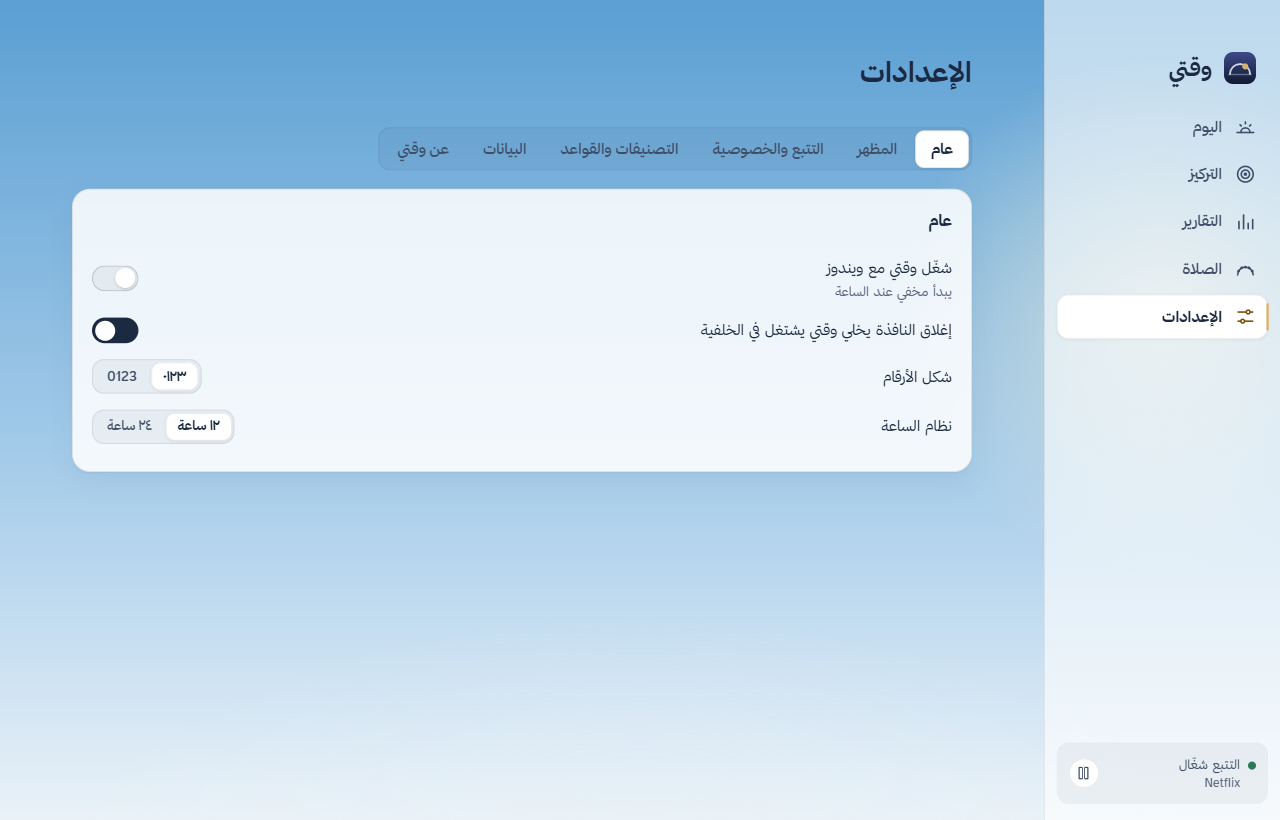
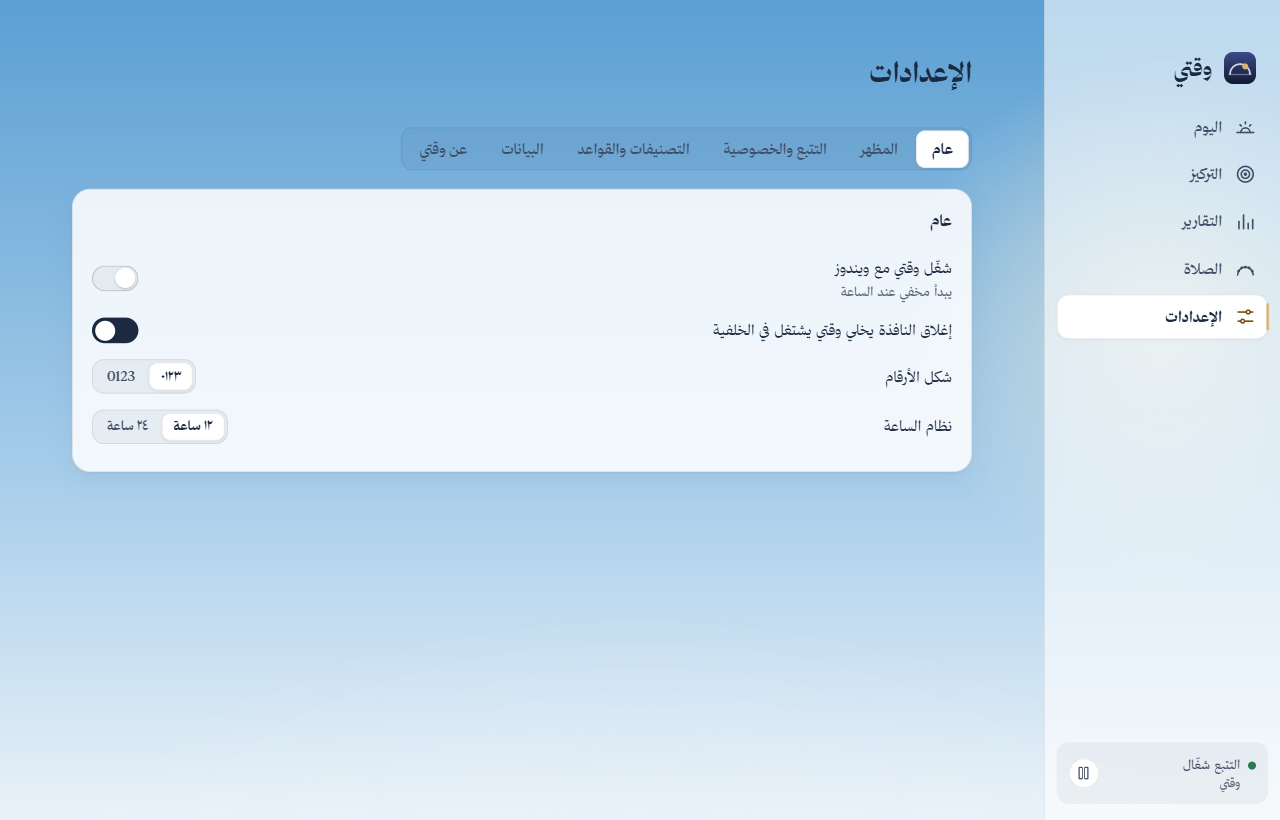
feat(ui): thmanyah serif style across the app; pin the E2E clock
After a side-by-side preview the serif style won: Thmanyah
Serif Display (500/700) for headings and big numbers, Thmanyah Serif
Text (400/500/700) for everything else. Same metrics and coverage as
Sans; still inlined into the CSS bundle, never shipped as files.
`npm run fonts` copies the five files and clears stale ones.

E2E runs launched within 10 minutes after a real adhan began in that
prayer's startup offer and failed. Isolated test profiles now honour
WAQTI_CLOCK_OFFSET_MS, the launcher pins the clock to 10:00, and
advanceClock() moves it relative to that.

diff --git a/electron.vite.config.ts b/electron.vite.config.ts
@@ -45,19 +45,23 @@ function cspPlugin(isDev: boolean): Plugin {
 }
 
 const THMANYAH_DIR = resolve(__dirname, 'fonts/thmanyah')
+// Serif Display for headings and big numbers (500 also serves 400; 700 serves
+// 600), Serif Text for everything else. Keep in step with FILES in scripts/fonts.mjs.
 const THMANYAH_FACES = [
-  { file: 'thmanyahsans-Regular.woff2', weight: 400 },
-  { file: 'thmanyahsans-Medium.woff2', weight: 500 },
-  { file: 'thmanyahsans-Bold.woff2', weight: 700 }
+  { family: 'Thmanyah Serif Display', file: 'thmanyahserifdisplay-Medium.woff2', weight: 500 },
+  { family: 'Thmanyah Serif Display', file: 'thmanyahserifdisplay-Bold.woff2', weight: 700 },
+  { family: 'Thmanyah Serif Text', file: 'thmanyahseriftext-Regular.woff2', weight: 400 },
+  { family: 'Thmanyah Serif Text', file: 'thmanyahseriftext-Medium.woff2', weight: 500 },
+  { family: 'Thmanyah Serif Text', file: 'thmanyahseriftext-Bold.woff2', weight: 700 }
 ]
 
 /**
- * Serves `virtual:thmanyah.css`: the @font-face rules for Thmanyah Sans with
- * the font files inlined as data URIs. The thmanyah Font License allows the
- * font only inside a compiled, packaged product and never as files a user can
- * pull out, and it forbids redistributing them, so the files live outside git
- * (`npm run fonts`) and never ship as separate assets. When they are missing
- * (a fresh clone) the module is empty and the bundled OFL fonts take over.
+ * Serves `virtual:thmanyah.css`: the @font-face rules for the Thmanyah serif
+ * fonts with the files inlined as data URIs. The thmanyah Font License allows
+ * the font only inside a compiled, packaged product and never as files a user
+ * can pull out, and it forbids redistributing them, so the files live outside
+ * git (`npm run fonts`) and never ship as separate assets. When they are
+ * missing (a fresh clone) the module is empty and the bundled OFL fonts take over.
  */
 function thmanyahPlugin(): Plugin {
   const id = 'virtual:thmanyah.css'
@@ -71,14 +75,14 @@ function thmanyahPlugin(): Plugin {
       if (source !== resolvedId) return undefined
       if (!THMANYAH_FACES.every((f) => existsSync(join(THMANYAH_DIR, f.file)))) {
         this.warn(
-          'Thmanyah Sans is not in fonts/thmanyah (npm run fonts); using the bundled fonts.'
+          'The Thmanyah fonts are not in fonts/thmanyah (npm run fonts); using the bundled fonts.'
         )
         return ''
       }
       return THMANYAH_FACES.map((f) => {
         const data = readFileSync(join(THMANYAH_DIR, f.file)).toString('base64')
         return `@font-face {
-  font-family: 'Thmanyah Sans';
+  font-family: '${f.family}';
   font-style: normal;
   font-display: block;
   font-weight: ${f.weight};

diff --git a/tests/e2e/helpers.ts b/tests/e2e/helpers.ts
@@ -15,7 +15,17 @@ export interface Launched {
   dataDir: string
 }
 
-/** Launches the built app with an isolated data folder. */
+/**
+ * Offset that makes the app's clock read 10:00 today: well clear of every
+ * prayer, so a run never starts inside a real adhan's startup offer.
+ */
+function tenAmOffset(): string {
+  const target = new Date()
+  target.setHours(10, 0, 0, 0)
+  return String(Math.round((target.getTime() - Date.now()) / 60_000) * 60_000)
+}
+
+/** Launches the built app with an isolated data folder and a pinned clock. */
 export async function launch(
   extraEnv: Record<string, string> = {},
   dataDir?: string
@@ -23,7 +33,12 @@ export async function launch(
   const dir = dataDir ?? fs.mkdtempSync(path.join(os.tmpdir(), 'waqti-e2e-'))
   const app = await electron.launch({
     args: ['.'],
-    env: { ...process.env, WAQTI_USER_DATA: dir, ...extraEnv } as Record<string, string>
+    env: {
+      ...process.env,
+      WAQTI_USER_DATA: dir,
+      WAQTI_CLOCK_OFFSET_MS: tenAmOffset(),
+      ...extraEnv
+    } as Record<string, string>
   })
   const win = await app.firstWindow()
   return { app, win, dataDir: dir }
@@ -47,6 +62,15 @@ export async function shown(app: ElectronApplication, page: Page): Promise<Page>
     )
     .toBe(true)
   return page
+}
+
+/**
+ * Moves the app's clock `minutes` forward from where it reads now.
+ * (`debug:setOffset` alone is relative to the real clock, and tests start pinned.)
+ */
+export async function advanceClock(win: Page, minutes: number): Promise<void> {
+  const { clockOffsetMs } = await invoke(win, 'app:snapshot')
+  await invoke(win, 'debug:setOffset', { minutes: Math.round(clockOffsetMs / 60_000) + minutes })
 }
 
 /** Calls the typed IPC bridge from the page. */

diff --git a/src/renderer/src/styles/tokens.css b/src/renderer/src/styles/tokens.css
@@ -32,11 +32,13 @@
   /* Category colours: src/shared/palette.ts (validated for both tones) */
   --cat-other: #4a3aa7;
 
-  /* Type: Thmanyah Sans everywhere; the OFL fonts cover the few glyphs it lacks
-     (٫ ٬) and stand in when it is not installed (see fonts.css). */
+  /* Type: Thmanyah Serif Display for headings and big numbers, Serif Text for
+     everything else. The OFL fonts cover the few glyphs they lack (٫ ٬) and
+     stand in when they are not installed (see fonts.css). */
   --font-display:
-    'Thmanyah Sans', 'Noto Kufi Arabic', 'IBM Plex Sans Arabic', 'Segoe UI', system-ui, sans-serif;
-  --font-body: 'Thmanyah Sans', 'IBM Plex Sans Arabic', 'Segoe UI', system-ui, sans-serif;
+    'Thmanyah Serif Display', 'Noto Kufi Arabic', 'IBM Plex Sans Arabic', 'Segoe UI', system-ui,
+    sans-serif;
+  --font-body: 'Thmanyah Serif Text', 'IBM Plex Sans Arabic', 'Segoe UI', system-ui, sans-serif;
   --fs-display: 56px;
   --fs-h1: 28px;
   --fs-h2: 20px;

diff --git a/tests/e2e/lock.spec.ts b/tests/e2e/lock.spec.ts
@@ -1,6 +1,6 @@
 import path from 'node:path'
 import { expect, test, type Page } from '@playwright/test'
-import { invoke, launch, shown } from './helpers'
+import { advanceClock, invoke, launch, shown } from './helpers'
 
 const SHOTS = process.env['SHOT_DIR']
 
@@ -60,7 +60,7 @@ test('prayer lock: snooze once, then صلّيت after the minimum time', async (
   expect((await invoke(win, 'app:snapshot')).machine.prayer.kind).toBe('snoozed')
 
   // Jump the scheduler clock past the snooze: the lock returns without a second snooze.
-  await invoke(win, 'debug:setOffset', { minutes: 6 })
+  await advanceClock(win, 6)
   overlay = await overlayWindow(app)
   await expect(overlay.locator('[data-testid="lock-snooze"]')).toBeDisabled()
   const closed2 = overlay.waitForEvent('close')

diff --git a/src/renderer/src/styles/fonts.css b/src/renderer/src/styles/fonts.css
@@ -1,8 +1,8 @@
 /*
- * The UI face is Thmanyah Sans, served by `virtual:thmanyah.css` (see
- * electron.vite.config.ts). These bundled fonts (SIL OFL 1.1, see
- * THIRD_PARTY_LICENSES) fill the glyphs it lacks and stand in when it is not
- * installed. Arabic and Latin subsets only, woff2 only.
+ * The UI faces are Thmanyah Serif Display and Serif Text, served by
+ * `virtual:thmanyah.css` (see electron.vite.config.ts). These bundled fonts
+ * (SIL OFL 1.1, see THIRD_PARTY_LICENSES) fill the glyphs they lack and stand
+ * in when they are not installed. Arabic and Latin subsets only, woff2 only.
  * Noto Kufi Arabic: headings, times, big numbers. IBM Plex Sans Arabic: body.
  */
 

diff --git a/tests/e2e/focus.spec.ts b/tests/e2e/focus.spec.ts
@@ -1,6 +1,6 @@
 import path from 'node:path'
 import { expect, test, type Page } from '@playwright/test'
-import { invoke, launch, shown } from './helpers'
+import { advanceClock, invoke, launch, shown } from './helpers'
 
 const SHOTS = process.env['SHOT_DIR']
 
@@ -66,7 +66,7 @@ test('focus session: guard, back to work, snooze, prayer pause and summary', asy
   }
 
   // Jump past the end: the session completes and the summary appears.
-  await invoke(win, 'debug:setOffset', { minutes: 30 })
+  await advanceClock(win, 30)
   await expect(win.getByRole('dialog')).toBeVisible({ timeout: 10_000 })
   await expect(win.getByRole('dialog')).toContainText('أحسنت')
   if (SHOTS) {

diff --git a/src/main/core.ts b/src/main/core.ts
@@ -118,6 +118,12 @@ export class WaqtiCore {
     this.repo = opts.repo
     this.settings = opts.settings
     this.notice = opts.notice
+    // Isolated test profiles may start at a pinned clock so a run that happens
+    // to launch just after an adhan does not begin with that prayer's offer.
+    const testOffset = Number(process.env['WAQTI_CLOCK_OFFSET_MS'])
+    if (process.env['WAQTI_USER_DATA'] && Number.isFinite(testOffset)) {
+      this.clock.setOffset(testOffset)
+    }
     this.tracker = new Tracker(this.repo)
     this.scheduler = new Scheduler(() => this.settings.get(), this.clock.now())
     this.apps = new AppsService(this.native, this.repo)

diff --git a/src/renderer/src/styles/base.css b/src/renderer/src/styles/base.css
@@ -23,7 +23,7 @@ html {
   text-rendering: optimizeLegibility;
   /* Arabic joining breaks with letter-spacing; italics are never used. */
   letter-spacing: normal;
-  /* Thmanyah Sans's final ر sweeps into the following space; a touch of word
+  /* Thmanyah's final ر sweeps into the following space; a touch of word
      spacing keeps «سبتمبر ٢٠٢٦» from reading as one word. */
   word-spacing: 0.08em;
   font-style: normal;

diff --git a/README.md b/README.md
@@ -69,7 +69,7 @@ npm install
 npm run dev
 ```
 
-**الخط:** الواجهة بخط ثمانية (Thmanyah Sans). ترخيصه يمنع إعادة توزيع ملفاته، فهي مو موجودة في المستودع. نزّله من [font.thmanyah.com](https://font.thmanyah.com) لمجلد التنزيلات، وبعدين شغّل `npm run fonts` مرة وحدة. بدونه يشتغل التطبيق بالخطوط الاحتياطية، لكن `npm run dist` يرفض يبني المثبّت.
+**الخط:** الواجهة بخط ثمانية: Serif Display للعناوين والأرقام الكبيرة، وSerif Text لباقي النصوص. ترخيصه يمنع إعادة توزيع ملفاته، فهي مو موجودة في المستودع. نزّله من [font.thmanyah.com](https://font.thmanyah.com) لمجلد التنزيلات، وبعدين شغّل `npm run fonts` مرة وحدة. بدونه يشتغل التطبيق بالخطوط الاحتياطية، لكن `npm run dist` يرفض يبني المثبّت.
 
 | الأمر                                | الوظيفة                                    |
 | ------------------------------------ | ------------------------------------------ |
@@ -132,7 +132,7 @@ npm install
 npm run dev
 ```
 
-**Font:** the interface uses Thmanyah Sans. Its licence forbids redistributing the font files, so they are not in the repository: download the family from [font.thmanyah.com](https://font.thmanyah.com) into your Downloads folder and run `npm run fonts` once (or `npm run fonts -- path/to/Thmanyah-Font-Family.zip`). The build inlines the fonts into the CSS bundle, so they never ship as separate files. Without them the app runs on the bundled fallback fonts, and `npm run dist` refuses to build.
+**Font:** the interface uses the thmanyah typeface: Serif Display for headings and big numbers, Serif Text for everything else. Its licence forbids redistributing the font files, so they are not in the repository: download the family from [font.thmanyah.com](https://font.thmanyah.com) into your Downloads folder and run `npm run fonts` once (or `npm run fonts -- path/to/Thmanyah-Font-Family.zip`). The build inlines the fonts into the CSS bundle, so they never ship as separate files. Without them the app runs on the bundled fallback fonts, and `npm run dist` refuses to build.
 
 `npm run dist` builds the installer at `dist/Waqti-Setup-1.0.0.exe`. Other scripts: `typecheck`, `lint`, `test` (Vitest with a coverage gate), `test:e2e` (Playwright driving the real Electron app), `bench`, `perf`, `screenshots`.
 
@@ -149,4 +149,4 @@ Documentation: [ARCHITECTURE.md](ARCHITECTURE.md) (processes, the lock/focus sta
 
 ## License
 
-MIT — see [LICENSE](LICENSE). The interface font, Thmanyah Sans, is © thmanyah Publishing and Distribution and used under the [thmanyah Font License](https://font.thmanyah.com/licenses); it is embedded in the application and is not licensed for extraction or redistribution. The fallback fonts (Noto Kufi Arabic, IBM Plex Sans Arabic) are under the SIL Open Font License 1.1; all third-party licences are in [THIRD_PARTY_LICENSES](THIRD_PARTY_LICENSES).
+MIT — see [LICENSE](LICENSE). The interface fonts, Thmanyah Serif Display and Serif Text, are © thmanyah Publishing and Distribution and used under the [thmanyah Font License](https://font.thmanyah.com/licenses); it is embedded in the application and is not licensed for extraction or redistribution. The fallback fonts (Noto Kufi Arabic, IBM Plex Sans Arabic) are under the SIL Open Font License 1.1; all third-party licences are in [THIRD_PARTY_LICENSES](THIRD_PARTY_LICENSES).

diff --git a/DECISIONS.md b/DECISIONS.md
@@ -194,7 +194,7 @@
 
 ## ١٩. خط ثمانية للواجهة
 
-**القرار:** الواجهة كلها بخط ثمانية (Thmanyah Sans) بثلاثة أوزان (عادي، متوسط، عريض). هذا بدل الخطين السابقين (Noto Kufi Arabic وIBM Plex Sans Arabic)، وبقوا احتياط.
+**القرار:** الواجهة كلها بخط ثمانية بأسلوبه المزخرف (Serif): Serif Display للعناوين والأرقام الكبيرة (متوسط وعريض)، وSerif Text لباقي النصوص (عادي ومتوسط وعريض). Serif Text هو نفس التصميم لكنه معمول للأحجام الصغيرة عشان يبقى مقروء. جربنا Thmanyah Sans أول، وبعد مقارنة بالصور اخترت Serif. الخطين السابقين (Noto Kufi Arabic وIBM Plex Sans Arabic) بقوا احتياط.
 
 **الترخيص وكيف التزمنا فيه:** ترخيص خط ثمانية يسمح بتضمين الخط داخل تطبيق مبني ومغلّف، ويمنع ثلاث أشياء: تعديل ملفات الخط، وإعادة توزيعها، وإتاحتها بطريقة تسمح للمستخدم يستخرجها كملفات خط. عشان كذا:
 
